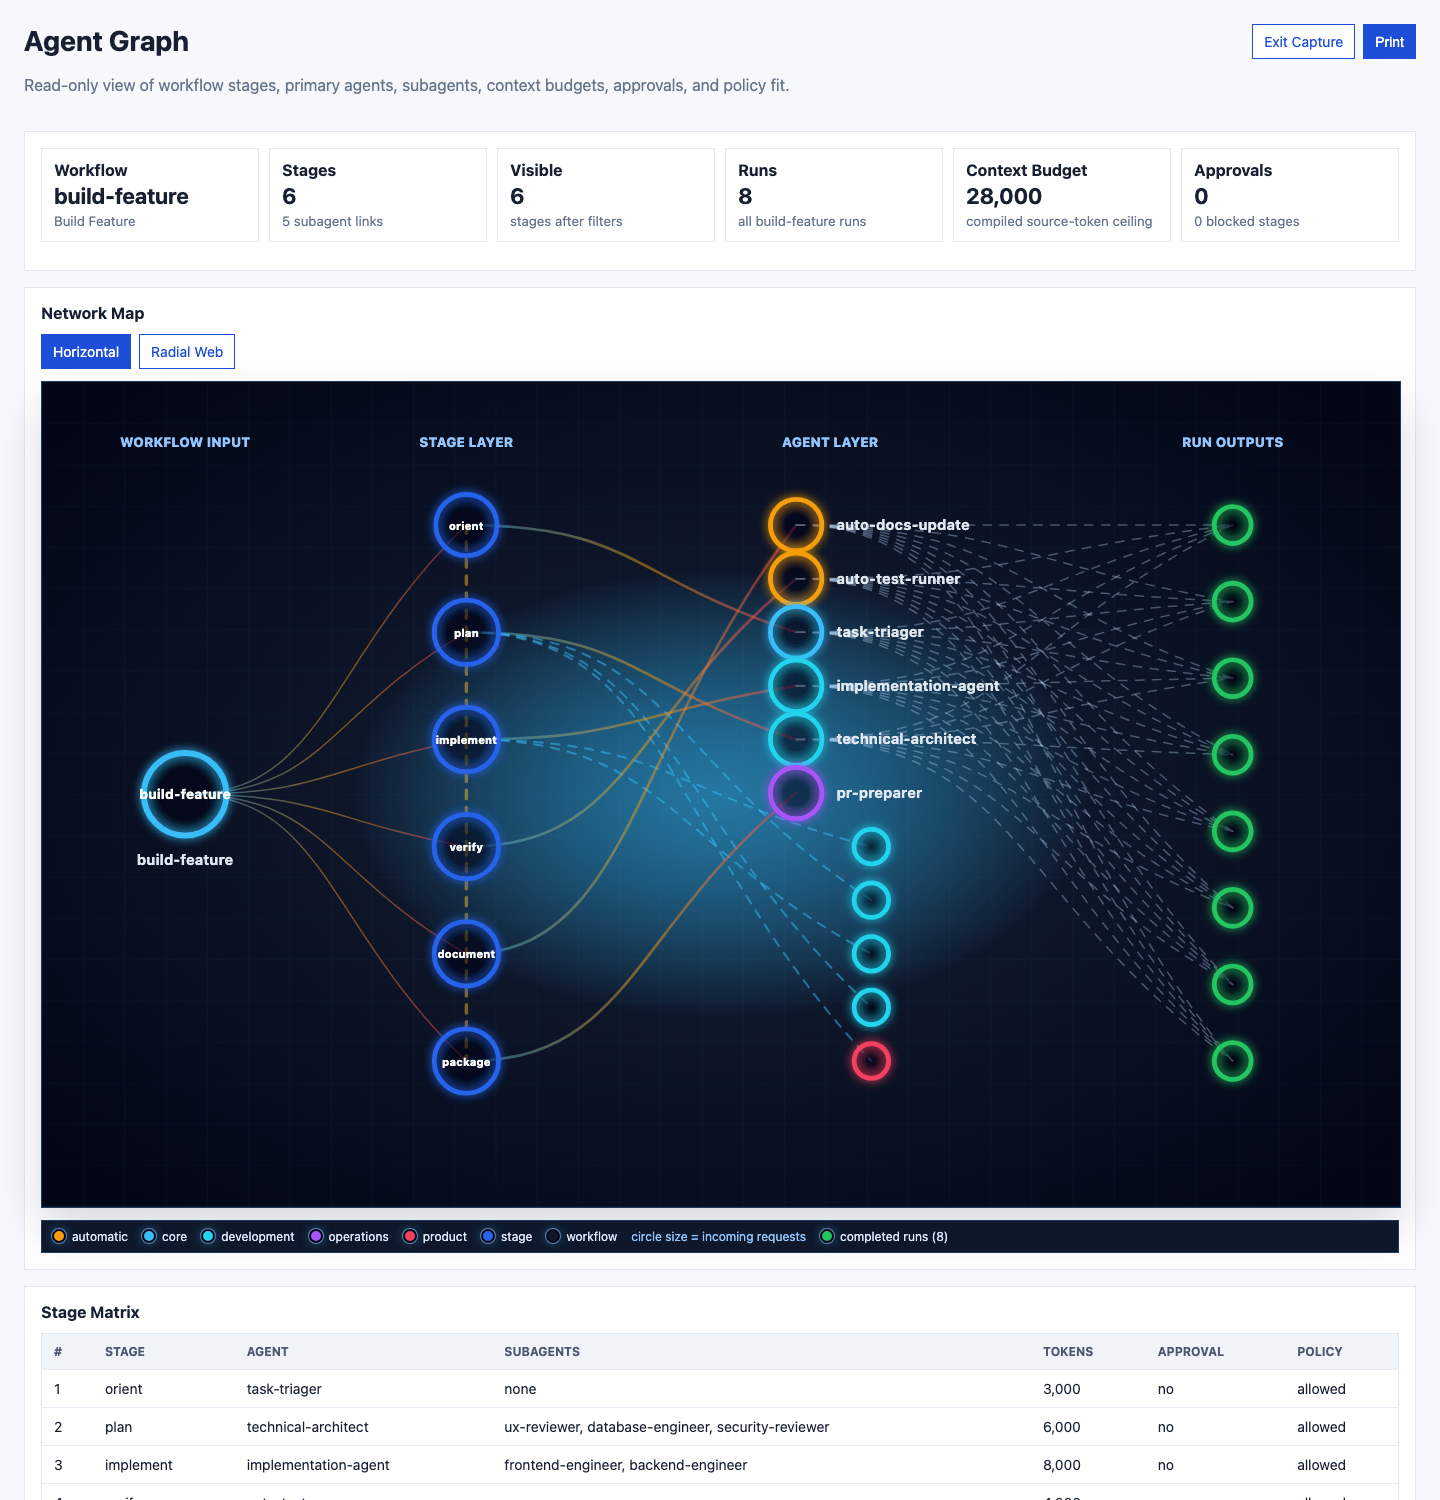
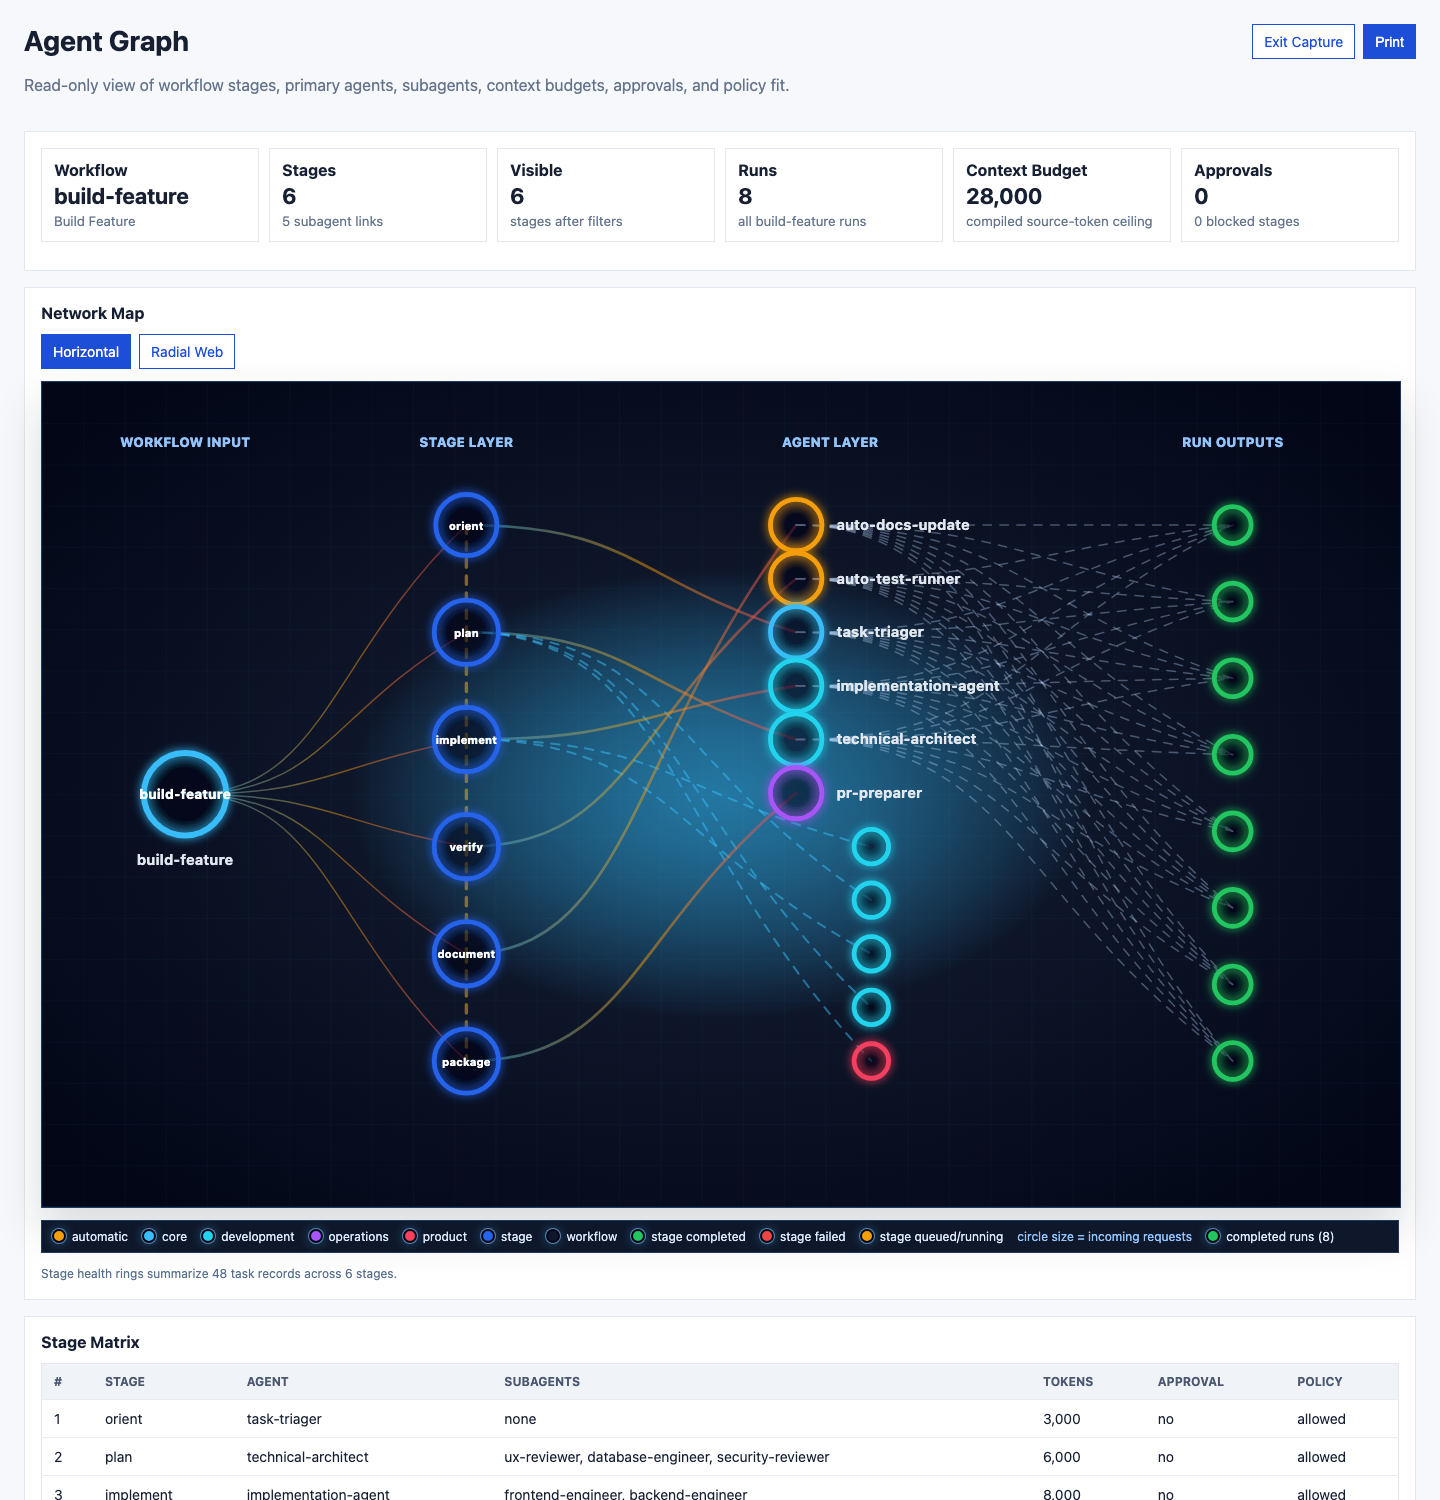
Add workflow graph stage health overlays

diff --git a/apps/cli/src/index.ts b/apps/cli/src/index.ts
@@ -52,6 +52,7 @@ import {
   listProjectFileSummaries,
   listProjectStorageSummaries,
   listWorkflowQueue,
+  listWorkflowStageHealthForRuns,
   listWorkflowRunsForProject,
   listWorkflowRuns,
   migrateStorage,
@@ -5460,10 +5461,13 @@ type DashboardWorkflowGraphRun = {
   modelTierOverride: string | null;
 };
 
+type DashboardWorkflowStageHealth = Awaited<ReturnType<typeof listWorkflowStageHealthForRuns>>[number];
+
 type DashboardWorkflowGraphReport = WorkflowGraphReport & {
   runs: DashboardWorkflowGraphRun[];
   runStatusFilter: string;
   runWarnings: string[];
+  stageHealth: DashboardWorkflowStageHealth[];
 };
 
 async function loadDashboardWorkflowGraph(params: URLSearchParams): Promise<DashboardWorkflowGraphReport> {
@@ -5486,6 +5490,7 @@ async function loadDashboardWorkflowGraph(params: URLSearchParams): Promise<Dash
   const safeRunLimit = Math.min(Math.max(runLimit, 0), 250);
   const runWarnings: string[] = [];
   let runs: DashboardWorkflowGraphRun[] = [];
+  let stageHealth: DashboardWorkflowStageHealth[] = [];
   if (safeRunLimit > 0) {
     try {
       const projectRuns = await listWorkflowRunsForProject({ projectRootUri: projectDir, limit: safeRunLimit });
@@ -5501,11 +5506,12 @@ async function loadDashboardWorkflowGraph(params: URLSearchParams): Promise<Dash
           providerOverride: run.providerOverride,
           modelTierOverride: run.modelTierOverride
         }));
+      stageHealth = await listWorkflowStageHealthForRuns({ runIds: runs.map((run) => run.id) });
     } catch (error) {
       runWarnings.push(`Run history unavailable: ${error instanceof Error ? error.message : String(error)}`);
     }
   }
-  return { ...report, runs, runStatusFilter, runWarnings };
+  return { ...report, runs, runStatusFilter, runWarnings, stageHealth };
 }
 
 function renderWorkflowGraphDashboardHtml(report: DashboardWorkflowGraphReport, workflows: WorkflowDefinition[], params: URLSearchParams): string {
@@ -5702,11 +5708,12 @@ function renderWorkflowNetworkHtml(report: DashboardWorkflowGraphReport, stages:
     queued: "#f59e0b",
     cancelled: "#94a3b8"
   };
-  type NetworkNode = { id: string; label: string; title: string; x: number; y: number; r: number; color: string; kind: string; href?: string; labelX?: number; labelY?: number; labelAnchor?: string; caption?: string };
+  type NetworkNode = { id: string; label: string; title: string; x: number; y: number; r: number; color: string; kind: string; href?: string; labelX?: number; labelY?: number; labelAnchor?: string; caption?: string; stageId?: string; stageHealth?: DashboardWorkflowStageHealth };
   const nodeById = new Map<string, NetworkNode>();
   const links: Array<{ from: string; to: string; width: number; dashed?: boolean; className?: string }> = [];
   const requestSizedRadius = (baseRadius: number, requestCount: number, maxExtra: number): number => baseRadius + Math.min(maxExtra, Math.sqrt(Math.max(0, requestCount)) * 3.2);
   const stageNodeLabel = (stageId: string): string => truncateMiddle(stageId, 10);
+  const stageHealthById = new Map(report.stageHealth.map((health) => [health.stageId, health]));
   const radialPoint = (angle: number, radius: number): { x: number; y: number } => ({
     x: centerX + Math.cos(angle) * radius,
     y: centerY + Math.sin(angle) * radius
@@ -5747,8 +5754,11 @@ function renderWorkflowNetworkHtml(report: DashboardWorkflowGraphReport, stages:
       r: 22,
       color: stage.policyAllowed ? (stage.approvalRequired || stage.policyApprovalRequired ? "#f59e0b" : "#2563eb") : "#dc2626",
       kind: "stage",
-      href: `#${stageAnchorId(stage.id)}`
+      href: `#${stageAnchorId(stage.id)}`,
+      stageId: stage.id,
+      stageHealth: stageHealthById.get(stage.id)
     };
+    if (stageNode.stageHealth) stageNode.title = `${stageNode.title} - ${formatStageHealthTitle(stageNode.stageHealth)}`;
     nodeById.set(stageNodeId, stageNode);
     links.push({ from: "workflow", to: stageNodeId, width: 1.2, className: "signal" });
     if (index > 0) links.push({ from: `stage:${stages[index - 1].id}`, to: stageNodeId, width: 2.8, dashed: true, className: "sequence" });
@@ -5874,6 +5884,7 @@ function renderWorkflowNetworkHtml(report: DashboardWorkflowGraphReport, stages:
   const nodeSvg = [...nodeById.values()].map((node) => {
     const body = `<g class="network-node network-${escapeHtml(node.kind.replace(/\s+/g, "-"))}" style="color:${escapeHtml(node.color)}" transform="translate(${formatSvgNumber(node.x)} ${formatSvgNumber(node.y)})">
       <title>${escapeHtml(node.title)}</title>
+      ${node.kind === "stage" && node.stageHealth ? renderStageHealthRing(node.r, node.stageHealth) : ""}
       <circle r="${node.r}"></circle>
       ${node.kind === "stage" || node.kind === "workflow" || (node.kind === "run" && node.label) ? `<text text-anchor="middle" dominant-baseline="central">${escapeHtml(node.label)}</text>` : ""}
     </g>`;
@@ -5901,6 +5912,10 @@ function renderWorkflowNetworkHtml(report: DashboardWorkflowGraphReport, stages:
   const runCounts = countBy(report.runs.map((run) => run.status));
   const runLegend = Object.entries(runCounts).map(([status, count]) => `<span><i style="background:${runPalette[status] ?? "#64748b"}"></i>${escapeHtml(status)} runs (${count})</span>`).join("");
   const legend = categories.map((category) => `<span><i style="background:${palette[category] ?? palette.uncategorized}"></i>${escapeHtml(category)}</span>`).join("");
+  const totalStageHealthTasks = report.stageHealth.reduce((total, health) => total + health.totalTasks, 0);
+  const stageHealthSummary = report.stageHealth.length
+    ? `Stage health rings summarize ${formatNumber(totalStageHealthTasks)} task records across ${formatNumber(report.stageHealth.length)} stages.`
+    : "Stage health rings appear when selected runs include task-level stage history.";
   const networkDefs = `<defs>
         <radialGradient id="neuralCoreGlow" cx="50%" cy="50%" r="65%">
           <stop offset="0%" stop-color="#38bdf8" stop-opacity="0.62"></stop>
@@ -5938,8 +5953,34 @@ function renderWorkflowNetworkHtml(report: DashboardWorkflowGraphReport, stages:
       <g class="network-nodes">${nodeSvg}</g>
       <g>${labelSvg}</g>
     </svg>
-    <div class="network-legend">${legend}<span><i class="legend-stage"></i>stage</span><span><i class="legend-workflow"></i>workflow</span><span class="legend-note">circle size = incoming requests</span>${runLegend}</div>
+    <div class="network-legend">${legend}<span><i class="legend-stage"></i>stage</span><span><i class="legend-workflow"></i>workflow</span><span><i class="legend-health-completed"></i>stage completed</span><span><i class="legend-health-failed"></i>stage failed</span><span><i class="legend-health-active"></i>stage queued/running</span><span class="legend-note">circle size = incoming requests</span>${runLegend}</div>
+    <p class="network-health-summary">${escapeHtml(stageHealthSummary)}</p>
   </div>`;
+}
+
+function formatStageHealthTitle(health: DashboardWorkflowStageHealth): string {
+  const active = health.queuedTasks + health.runningTasks;
+  return `${health.totalTasks} stage tasks: ${health.completedTasks} completed, ${health.failedTasks} failed, ${active} queued/running, ${health.cancelledTasks} cancelled`;
+}
+
+function renderStageHealthRing(radius: number, health: DashboardWorkflowStageHealth): string {
+  if (health.totalTasks <= 0) return "";
+  const ringRadius = radius + 7;
+  const circumference = Math.PI * 2 * ringRadius;
+  const segments = [
+    { className: "completed", value: health.completedTasks },
+    { className: "failed", value: health.failedTasks },
+    { className: "active", value: health.queuedTasks + health.runningTasks },
+    { className: "cancelled", value: health.cancelledTasks }
+  ].filter((segment) => segment.value > 0);
+  let offset = 0;
+  const gap = segments.length > 1 ? 2.2 : 0;
+  return segments.map((segment) => {
+    const length = Math.max(0, (segment.value / health.totalTasks) * circumference - gap);
+    const svg = `<circle class="network-health-ring ${segment.className}" r="${formatSvgNumber(ringRadius)}" fill="none" stroke-dasharray="${formatSvgNumber(length)} ${formatSvgNumber(circumference - length)}" stroke-dashoffset="${formatSvgNumber(-offset)}"></circle>`;
+    offset += length + gap;
+    return svg;
+  }).join("");
 }
 
 function distributeLayerY(index: number, total: number, top: number, bottom: number): number {
@@ -9150,6 +9191,11 @@ function dashboardCss(): string {
     .network-links .support.dashed { stroke: #38bdf8; stroke-opacity: 0.50; }
     .network-links .sequence.dashed { stroke: #fbbf24; stroke-opacity: 0.48; }
     .network-links .outcome.dashed { stroke: #bfdbfe; stroke-opacity: 0.34; }
+    .network-health-ring { transform: rotate(-90deg); transform-origin: center; stroke-width: 4; stroke-linecap: round; filter: url(#neuralGlow); }
+    .network-health-ring.completed { stroke: #22c55e; }
+    .network-health-ring.failed { stroke: #ef4444; }
+    .network-health-ring.active { stroke: #f59e0b; }
+    .network-health-ring.cancelled { stroke: #94a3b8; }
     .network-node circle { fill: rgba(2,6,23,0.32); stroke: currentColor; stroke-width: 4; filter: url(#neuralGlow); }
     .network-node text { fill: white; font-size: 11px; font-weight: 800; pointer-events: none; }
     .network-stage text { font-size: 9px; }
@@ -9166,6 +9212,10 @@ function dashboardCss(): string {
     .network-legend .legend-note { color: #93c5fd; }
     .network-legend .legend-stage { background: #2563eb; }
     .network-legend .legend-workflow { background: #0f172a; }
+    .network-legend .legend-health-completed { background: #22c55e; }
+    .network-legend .legend-health-failed { background: #ef4444; }
+    .network-legend .legend-health-active { background: #f59e0b; }
+    .network-health-summary { margin: 0; color: #58708f; font-size: 12px; }
     .comparison-layout { display: grid; grid-template-columns: minmax(210px, 260px) minmax(0, 1fr); gap: 16px; align-items: start; }
     .suite-list { background: white; border: 1px solid #e2e7f0; padding: 14px; display: grid; gap: 8px; position: sticky; top: 20px; }
     .suite-link { display: grid; gap: 4px; padding: 10px; color: #172033; border: 1px solid #e2e7f0; }

diff --git a/packages/storage/src/postgres.ts b/packages/storage/src/postgres.ts
@@ -1536,6 +1536,16 @@ export interface WorkflowTaskStatus {
   finishedAt: string | null;
 }
 
+export interface WorkflowStageHealthStatus {
+  stageId: string;
+  totalTasks: number;
+  completedTasks: number;
+  failedTasks: number;
+  queuedTasks: number;
+  runningTasks: number;
+  cancelledTasks: number;
+}
+
 export interface ActionReceiptStatus {
   id: string;
   agentId: string;
@@ -1943,6 +1953,30 @@ export async function listWorkflowRunsForProject(input: {
        order by wr.started_at desc
        limit $2`,
       [input.projectRootUri, input.limit]
+    );
+    return result.rows;
+  });
+}
+
+export async function listWorkflowStageHealthForRuns(input: {
+  runIds: string[];
+}): Promise<WorkflowStageHealthStatus[]> {
+  if (!input.runIds.length) return [];
+  return withClient(async (client) => {
+    const result = await client.query<WorkflowStageHealthStatus>(
+      `select
+         wt.stage_id as "stageId",
+         count(*)::int as "totalTasks",
+         count(*) filter (where wt.status = 'completed')::int as "completedTasks",
+         count(*) filter (where wt.status = 'failed')::int as "failedTasks",
+         count(*) filter (where wt.status = 'queued')::int as "queuedTasks",
+         count(*) filter (where wt.status = 'running')::int as "runningTasks",
+         count(*) filter (where wt.status = 'cancelled')::int as "cancelledTasks"
+       from workflow_tasks wt
+       where wt.run_id = any($1::uuid[])
+       group by wt.stage_id
+       order by wt.stage_id asc`,
+      [input.runIds]
     );
     return result.rows;
   });

diff --git a/docs/roadmap.md b/docs/roadmap.md
@@ -180,7 +180,8 @@ trust gaps.
   - Done: size network-map nodes by incoming request count so frequently invoked agents, stages, and run outputs stand out.
   - Done: reshape the network map into a radial web with transparent nodes and color carried by stroke/glow.
   - Done: add network-map orientation controls so developers can switch between horizontal and radial web layouts.
-  - Next: overlay per-stage run health so the graph can show which workflow step tends to fail or stall.
+  - Done: overlay per-stage run health so the graph can show which workflow step tends to fail, stall, or complete.
+  - Next: add stage-click run filtering so clicking a stage can focus recent runs and failures for that workflow step.
 
 - [x] Optional model-improvement workflow pack.
   - Done: add reusable agents and a `model-improvement` workflow to diagnose whether a quality issue is best handled by context, prompts, routing, eval coverage, retrieval, or model fine-tuning.

diff --git a/docs/user-guide.md b/docs/user-guide.md
@@ -256,7 +256,9 @@ circular web with workflow core, stage ring, agent ring, and recent run-history
 orbit. In the network map, luminous signal paths show stage-to-agent and
 agent-to-run relationships, transparent nodes glow by type or status, stage
 nodes are labeled by stage name, and node size grows with incoming request count
-so heavily used agents, stages, and runs stand out. Stage nodes jump to the Stage Matrix, and run nodes
+so heavily used agents, stages, and runs stand out. When selected runs include
+task-level stage history, stage nodes also show a health ring for completed,
+failed, queued/running, and cancelled task outcomes. Stage nodes jump to the Stage Matrix, and run nodes
 open the run detail page, so the visual becomes a lightweight inspection
 surface. Use `runLimit=0` for definition-only diagrams or
 raise the limit up to `250` when you want more historical runs in the graph. Use
